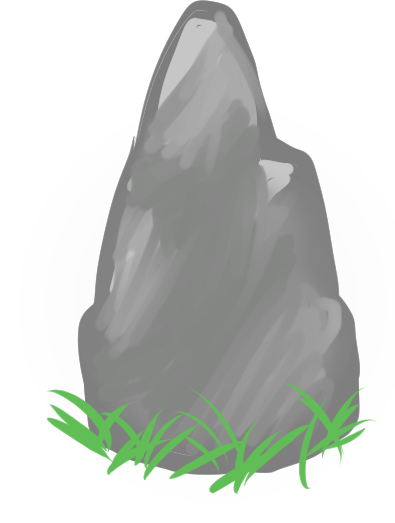
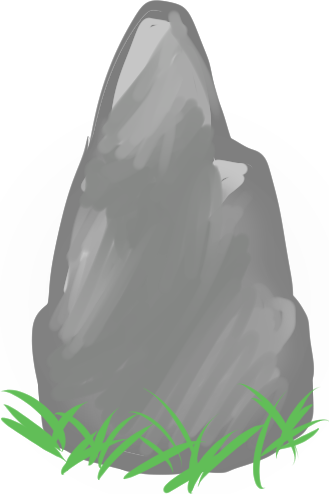
make stones move automatically and screen reponsive

Changed region(s): [[0.0, 0.0, 0.9726, 1.0], [0.5167, 0.7591, 0.5471, 0.7895], [0.3951, 0.2733, 0.4255, 0.3036]]

diff --git a/part1.html b/part1.html
@@ -2,7 +2,7 @@
 <html lang="en">
 <head>
 	<meta charset="UTF-8" />
-	<title>Phaser - Making your first game, part 1</title>
+	<title>Rolling Cat</title>
 	<script type="text/javascript" src="js/phaser.min.js"></script>
     <style type="text/css">
         body {
@@ -13,80 +13,114 @@
 <body>
 
 <script type="text/javascript">
+	const innerWidth = window.innerWidth;
+	const innerHeight = window.innerHeight;
+	const gameRatio = innerWidth / innerHeight;
+	const scaleWidth = innerWidth / 1920;
+	const scaleHeight = innerHeight / 1080;
+	var game = new Phaser.Game(innerWidth, innerHeight, Phaser.AUTO, '', { preload: preload, create: create, update: update });
+	var score = 0;
+	var stones, stone;
+	var randomXPosition = game.rnd.integerInRange(100, innerWidth);
 
-var game = new Phaser.Game(1920,860 , Phaser.AUTO, '', { preload: preload, create: create, update: update });
-var score = 0;
-function collectBeans(cat,redbean){
-	redbean.kill();
-	score = score +10;
-	scoreText.text = 'Score'+score;
-}
-function preload() {
-	game.load.image('background','assets/2.jpg');
-	game.load.image('stone_2','assets/4.png');
-	game.load.image('stone_1','assets/5.png');
-	game.load.image('cat','assets/1.gif');
-	game.load.image('redbean','assets/3.png');
-}
-
-function create() {
-	//game.add.sprite(0,0,'sky');
-	//game.add.sprite(0,0,'star');
-	game.physics.startSystem(Phaser.Physics.ARCADE);
-	background = game.add.sprite(0,0,'background');
-    //game.physics.arcade.enable(backgrounds);
-	//for(var i = 0;i<10;i++){
-		//var background = backgrounds.create(0,i*1920,'background');
-    //}
-	//backgrounds.body.velocity.x=150;
-	stones = game.add.group();
-	stones.enableBody = true;
-	var stone = stones.create(1500 , game.world.height-523 , 'stone_1');
-	stone.body.immovable = true;
-	stone = stones.create(750 , game.world.height-208 , 'stone_2');
-	stone.body.immovable = true;
-
-	cat = game.add.sprite(0,game.world.height-500,'cat');
-	game.physics.arcade.enable(cat);
-	cat.body.bounce.y = 0.2;
-	cat.body.gravity.y = 300;
-
-	cat.body.collideWorldBounds = true;
-	/*cat.animations.add('left',[0,1,2,3],10,true);
-	cat.animations.add('right',[5,6,7,8],10,true);
-    */
-	scoreText = game.add.text(16,16,'score:0',{fontSize:'32px',fill:'#000'});
-	redbeans = game.add.group();
-	redbeans.enableBody = true;
-	for (var i = 0 ; i < 2 ;i++){
-	   var redbean = redbeans.create((i+1)*600,0,'redbean');
-	   //redbean.body.gravity.y = 0;
-	   //redbean.body.bounce.y = (0.7)+Math.random()*0.2;
+	function collectBeans(cat, redbean){
+		redbean.kill();
+		score = score + 10;
+		scoreText.text = 'Score'+score;
 	}
-}
+	function preload() {
+		game.load.image('background', 'assets/2.jpg');
+		game.load.image('stone_2', 'assets/4.png');
+		game.load.image('stone_1', 'assets/5.png');
+		game.load.image('cat', 'assets/1.gif');
+		game.load.image('redbean', 'assets/3.png');
+	}
 
-function update() {
-	game.physics.arcade.collide(cat,stones);
-	game.physics.arcade.collide(cat,redbeans);
-    game.physics.arcade.overlap(cat,redbeans,collectBeans,null,this);
-    cat.body.velocity.x = 0;
-    cursors = game.input.keyboard.createCursorKeys();
-	if(cursors.left.isDown){
-	  cat.body.velocity.x = -150;
-	  //player.animations.play('left');
-    }
-	else if(cursors.right.isDown){
-	  cat.body.velocity.x = 150;
-	  //player.animations.play('right');
+	function create() {
+		//game.add.sprite(0,0,'sky');
+		//game.add.sprite(0,0,'star');
+		// background
+		game.physics.startSystem(Phaser.Physics.ARCADE);
+		background = game.add.sprite(0, 0, 'background');
+
+	    //game.physics.arcade.enable(backgrounds);
+		//for(var i = 0;i<10;i++){
+			//var background = backgrounds.create(0,i*1920,'background');
+	    //}
+		//backgrounds.body.velocity.x=150;
+
+		// stones
+		stones = game.add.group();
+		stones.enableBody = true;
+
+		var stone1Height = game.cache.getImage("stone_1").height;
+		var stone1Width = game.cache.getImage("stone_1").width;
+		var stone2Height = game.cache.getImage("stone_2").height;
+		var stone2Width = game.cache.getImage("stone_2").width;
+
+		//stone_1
+		stone = stones.create(randomXPosition , game.world.height - stone1Height * scaleHeight, 'stone_1');
+		stone.scale.setTo(scaleWidth, scaleHeight); //重設大小
+		stone.body.velocity.x = -100;
+		stone.body.immovable = true;
+
+		//stone_2
+		stone = stones.create(randomXPosition +  stone2Width, game.world.height - stone2Height * scaleHeight , 'stone_2');
+		stone.scale.setTo(scaleWidth, scaleHeight);
+		stone.body.velocity.x = -100;
+		stone.body.immovable = true;
+
+		// cat
+		cat = game.add.sprite(0, game.world.height - 500, 'cat');
+		cat.scale.setTo(scaleWidth, scaleHeight);
+		cat.anchor.setTo(0.5, 0.5);
+		game.physics.arcade.enable(cat);
+		cat.body.bounce.y = 0.2;
+		cat.body.gravity.y = 800;
+		cat.body.collideWorldBounds = true;
+
+		/*cat.animations.add('left',[0,1,2,3],10,true);
+		cat.animations.add('right',[5,6,7,8],10,true);
+	    */
+
+		// scoreText
+		scoreText = game.add.text(16, 16, 'score:0', { fontSize :'32px', fill :'#000' } );
+
+		redbeans = game.add.group();
+		redbeans.enableBody = true;
+		var redbean;
+		for (var i = 0 ; i < 2 ; i++){
+		   redbean = redbeans.create((i + 1) * 600, 0, 'redbean');
+		   redbean.scale.setTo(scaleWidth, scaleHeight);
+		   //redbean.body.gravity.y = 0;
+		   //redbean.body.bounce.y = (0.7)+Math.random()*0.2;
+		}
 	}
-    else {
-	  cat.animations.stop();
-      //player.frame = 4;
-    }
-	if(cursors.up.isDown ){
-	  cat.body.velocity.y = -350;
+
+	function update() {
+		game.physics.arcade.collide(cat, stones);
+		game.physics.arcade.collide(cat, redbeans);
+	    game.physics.arcade.overlap(cat, redbeans, collectBeans, null, this);
+	    cat.body.velocity.x = 0;
+		cat.angle += 10; //旋轉
+
+	    cursors = game.input.keyboard.createCursorKeys();
+		if(cursors.left.isDown){
+		  cat.body.velocity.x = -150;
+		  //player.animations.play('left');
+	    }
+		else if(cursors.right.isDown){
+		  cat.body.velocity.x = 150;
+		  //player.animations.play('right');
+		}
+	    else {
+		  cat.animations.stop();
+	      //player.frame = 4;
+	    }
+		if(cursors.up.isDown ){
+		  cat.body.velocity.y = -350;
+		}
 	}
-}
 
 </script>
 
